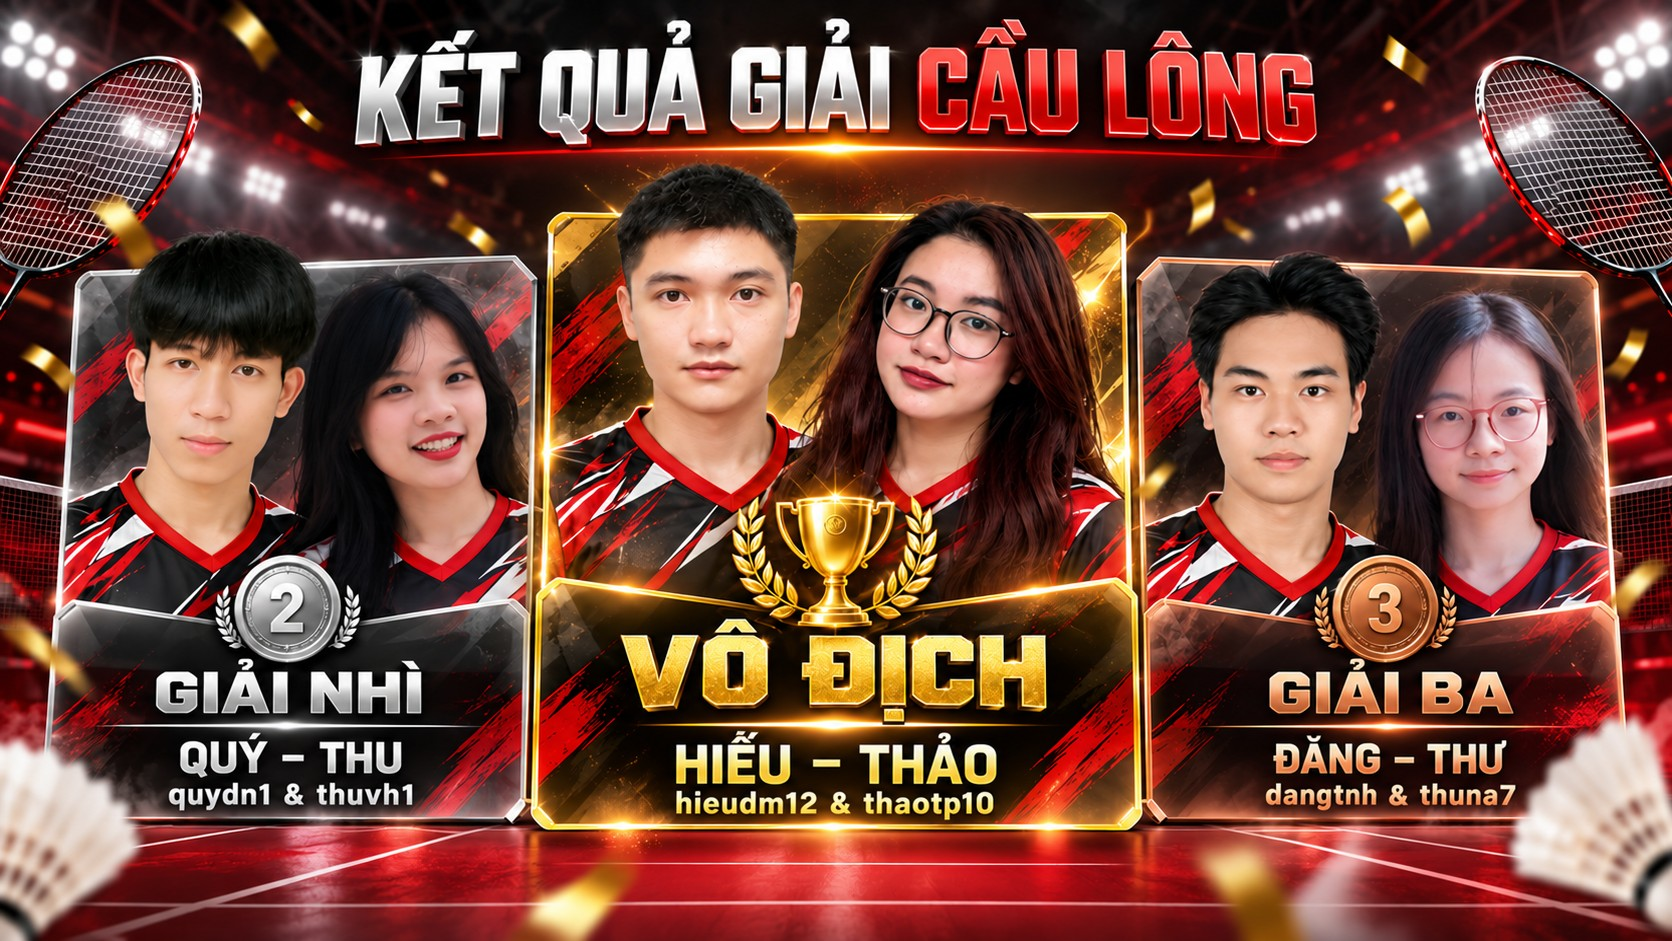
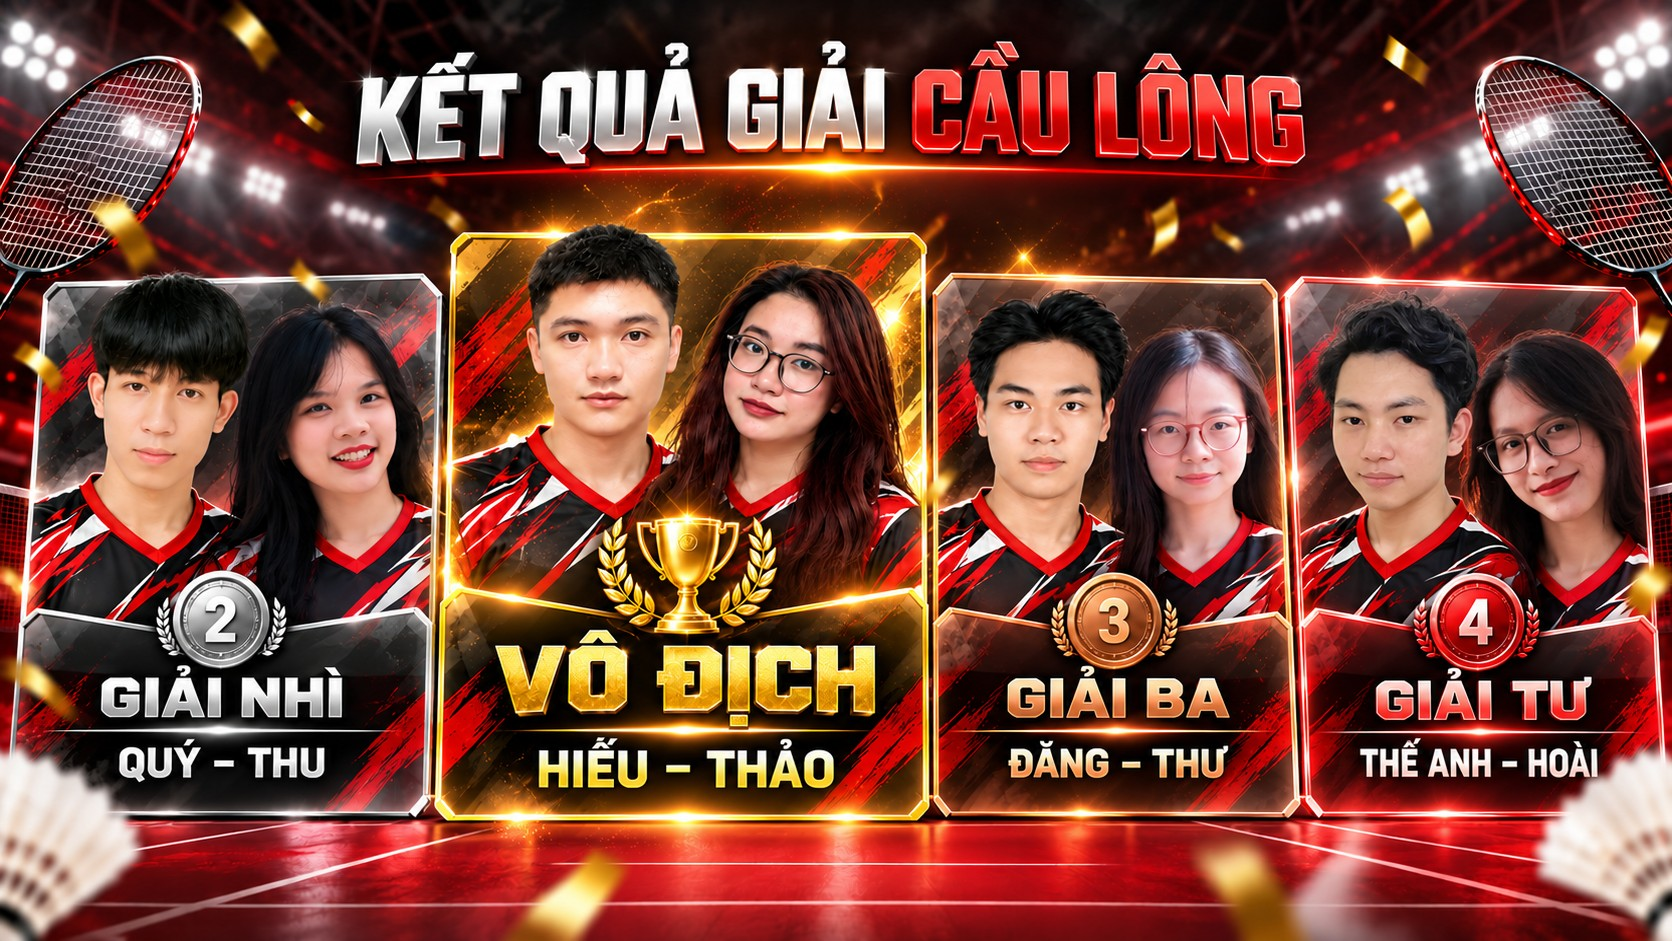
Thay poster Kết quả Cầu lông bản mới

diff --git a/index.html b/index.html
@@ -475,7 +475,7 @@ if (location.hash === '#ua') { document.addEventListener('DOMContentLoaded', fun
     { id: 'cloud', tab: 'Sinh nhật Viettel Cloud', title: 'Chúc mừng sinh nhật Viettel Cloud 4 tuổi', sub: '14/10/2022 đến 14/10/2026',
       seconds: 120, source: 'drive', intro: { image: 'img/sinh-nhat-cloud-4.jpg', seconds: 60 }, photoSeconds: 5, shuffle: true },
     { id: 'cau-long', tab: 'Kết quả Cầu lông', title: 'Kết quả giải Cầu lông', sub: 'Vô địch: Hiếu – Thảo', tag: 'Chung cuộc',
-      images: ['img/ket-qua-cau-long.jpg'], ticker: 'Vô địch Cầu lông: Hiếu – Thảo' },
+      images: ['img/ket-qua-cau-long.jpg?v=2'], ticker: 'Vô địch Cầu lông: Hiếu – Thảo' },
     { id: 'pes', tab: 'Kết quả PES', title: 'Kết quả giải PES', sub: 'Vô địch: Hiếu & Trung', tag: 'Chung cuộc',
       images: ['img/ket-qua-pes.jpg'], ticker: 'Vô địch PES: Hiếu & Trung' },
     { id: 'bida', tab: 'Kết quả Bida', title: 'Kết quả giải Bida', sub: 'Vô địch: Lê Văn Thành & Trần Phan Huy Anh', tag: 'Chung cuộc',
